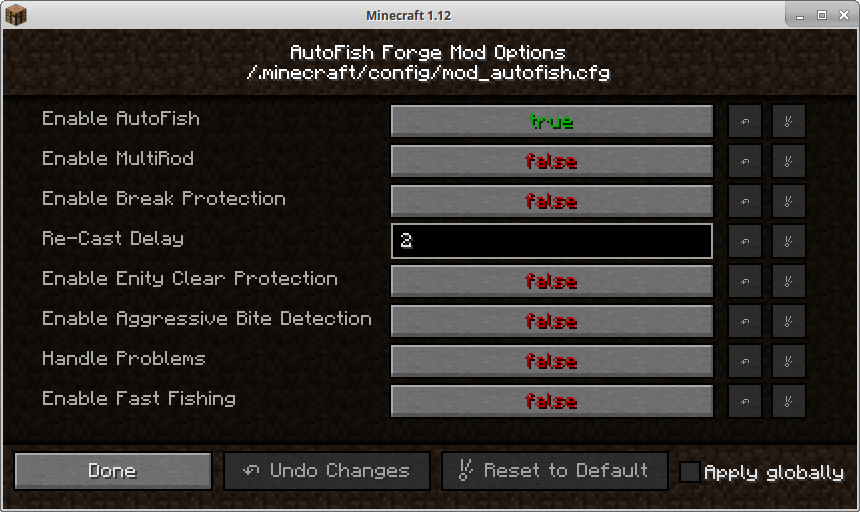
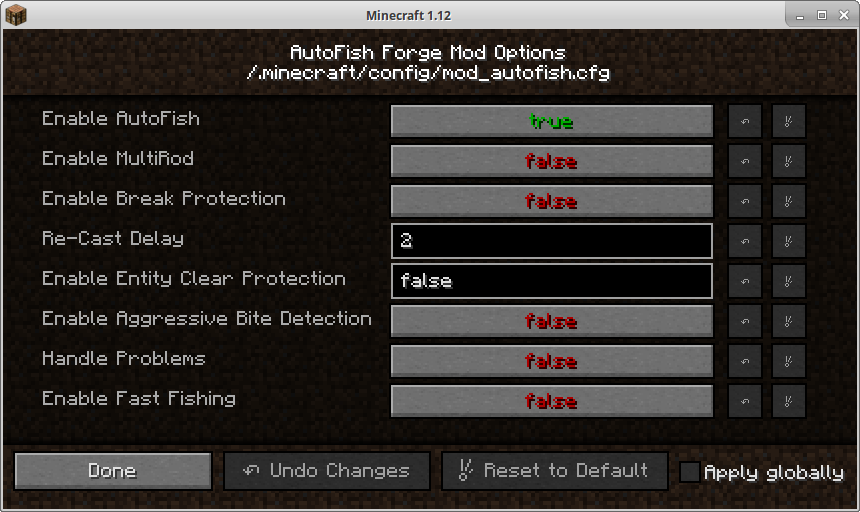
Typo

Changed region(s): [[0.4535, 0.5, 0.8465, 0.5938], [0.1512, 0.5312, 0.393, 0.5625]]

diff --git a/src/main/java/net/unladenswallow/minecraft/autofish/ModAutoFish.java b/src/main/java/net/unladenswallow/minecraft/autofish/ModAutoFish.java
@@ -42,7 +42,7 @@ public class ModAutoFish {
             "Enable MultiRod",
             "Enable Break Protection",
             "Re-Cast Delay",
-            "Enable Enity Clear Protection",
+            "Enable Entity Clear Protection",
             "Enable Aggressive Bite Detection",
             "Handle Problems",
             "Enable Fast Fishing"
@@ -61,6 +61,7 @@ public class ModAutoFish {
         ModAutoFish.proxy.preInit(preInitEvent);
         configFile = new Configuration(preInitEvent.getSuggestedConfigurationFile());
         configFile.renameProperty(Configuration.CATEGORY_GENERAL, "Fast Fishing", "Enable Fast Fishing");
+        configFile.renameProperty(Configuration.CATEGORY_GENERAL, "Enable Enity Clear Protection", "Enable Entity Clear Protection");
         configFile.setCategoryPropertyOrder(Configuration.CATEGORY_GENERAL, propertyOrder);
         syncConfig();
     }
@@ -75,7 +76,7 @@ public class ModAutoFish {
         config_autofish_enable = configFile.getBoolean("Enable AutoFish", Configuration.CATEGORY_GENERAL, CONFIG_DEFAULT_AUTOFISH_ENABLE, "Automatically reel in and re-cast when a fish nibbles the hook. If set to false, all other AutoFish functionality is disabled.");
         config_autofish_multirod = configFile.getBoolean("Enable MultiRod", Configuration.CATEGORY_GENERAL, CONFIG_DEFAULT_AUTOFISH_MULTIROD, "Automatically switch to a new fishing rod when the current rod breaks, if one is available in the hotbar.");
         config_autofish_preventBreak = configFile.getBoolean("Enable Break Protection", Configuration.CATEGORY_GENERAL, CONFIG_DEFAULT_AUTOFISH_PREVENTBREAK, "Stop fishing or switch to a new rod just before the current rod breaks.  Useful if you want to repair your enchanted fishing rods.");
-        config_autofish_entityClearProtect = configFile.getBoolean("Enable Enity Clear Protection", Configuration.CATEGORY_GENERAL, CONFIG_DEFAULT_AUTOFISH_ENTITYCLEARPROTECT, "When playing on a server, re-cast after the server clears entities.  Useful if you are playing on a server that periodically deletes all entities (including fishing hooks) from the world, which causes you to stop fishing.");
+        config_autofish_entityClearProtect = configFile.getBoolean("Enable Entity Clear Protection", Configuration.CATEGORY_GENERAL, CONFIG_DEFAULT_AUTOFISH_ENTITYCLEARPROTECT, "When playing on a server, re-cast after the server clears entities.  Useful if you are playing on a server that periodically deletes all entities (including fishing hooks) from the world, which causes you to stop fishing.");
         config_autofish_recastDelay = configFile.getInt("Re-Cast Delay", Configuration.CATEGORY_GENERAL, CONFIG_DEFAULT_AUTOFISH_RECASTDELAY, 1, 10, "Time (in seconds) to wait before automatically re-casting. Increase this value if server lag causes re-casting to fail.");
         config_autofish_fastFishing = configFile.getBoolean("Enable Fast Fishing", Configuration.CATEGORY_GENERAL, CONFIG_DEFAULT_AUTOFISH_FASTFISHING, "[SINGLE PLAYER ONLY] Fish will bite right after casting.");
         config_autofish_aggressiveBiteDetection = configFile.getBoolean("Enable Aggressive Bite Detection", Configuration.CATEGORY_GENERAL, CONFIG_DEFAULT_AUTOFISH_AGGRESSIVEBITEDETECTION, "When playing on a server, be more aggressive about detecting fish bites.  Improves multiplayer bite detection from ~85% to ~95%, but false positives will be more likely, especially if other players are fishing very close by.");
